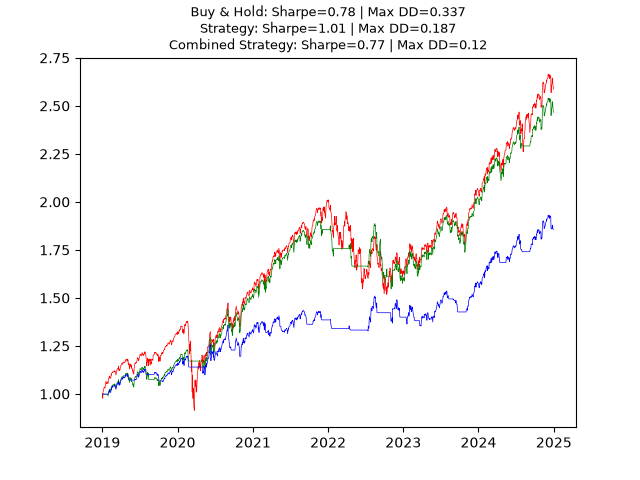
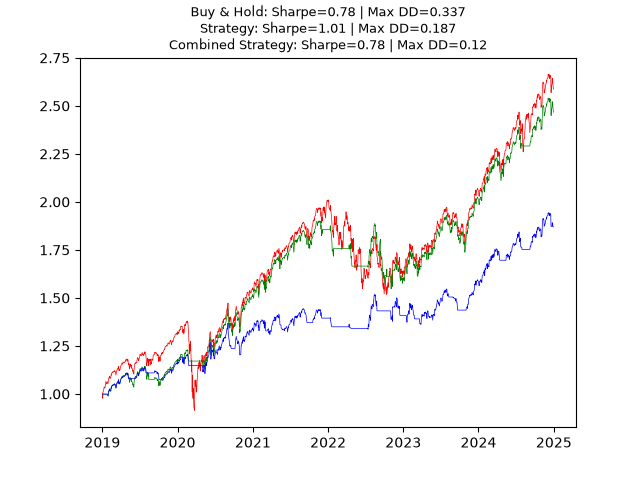
Correct README claims and fix combined-strategy test split
- README: prices are dividend-adjusted; split relabelled as train/test stability check; headline net of costs
- backtest.py: momentum computed once on full series; all reported metrics printed; unused code removed
- volatility_forecasting.py: train-only fit renamed, docstring cleaned
- Tearsheets regenerated

Changed region(s): [[0.2188, 0.5938, 0.75, 0.7812], [0.75, 0.4375, 0.875, 0.5938], [0.1562, 0.7812, 0.2188, 0.8125]]

diff --git a/backtest.py b/backtest.py
@@ -8,6 +8,7 @@ def give_regime_data():
     spy["returns"] = spy["Close"].pct_change()
     spy["rolling_20"] = spy["returns"].rolling(20).std() * (252) ** (1 / 2)
     spy["rolling_252"] = spy["returns"].rolling(252).std() * (252) ** (1 / 2)
+    spy["momentum"] = spy["returns"].rolling(20).sum()
     spy["regime"] = 1
     spy.loc[spy["rolling_20"] >= spy["rolling_252"] * 1.2, "regime"] = 0
     return spy
@@ -36,7 +37,6 @@ def strategy_calculation(spy):
     spy["cumulative_regime_shift"] = spy["regime_shift"].cumsum()
 
     ##### Momentum integrated
-    spy["momentum"] = spy["returns"].rolling(20).sum()
     spy["position_combined"] = 0
     spy.loc[(spy["regime"].shift(1) == 1) & (spy["momentum"].shift(1) > 0), "position_combined"] = 1
     spy["strategy_combined_returns"] = spy["returns"] * spy["position_combined"]
@@ -84,29 +84,13 @@ def metrics_and_graphs(spy, irx_daily, label_strat=""):
     print(spy["cumulative_strategy_returns_tc"].iloc[-1])
     print(spy["cumulative_strategy_combined_returns_tc"].iloc[-1])
     print(spy["combined_shift"].cumsum().max())
+    print("NO-TC  cum regime/combined:", spy["cumulative_strategy_returns"].iloc[-1], spy["cumulative_strategy_combined_returns"].iloc[-1])
+    print("NO-TC  Sharpe regime/combined:", sharpe_ratio(spy["strategy_returns"], irx_daily), sharpe_ratio(spy["strategy_combined_returns"], irx_daily))
+    print("NO-TC  MaxDD regime/combined:", max_drawdown(spy["strategy_returns"]), max_drawdown(spy["strategy_combined_returns"]))
+    print("TC     MaxDD hold/regime/combined:", max_drawdown_hold, max_drawdown_strategy_tc, max_drawdown_combined_strategy_tc)
+    print("TC     Sharpe hold/regime/combined:", sharp_ratio_hold, sharp_ratio_strategy_tc,
+          sharp_ratio_combined_strategy_tc)
     return sharp_ratio_hold, max_drawdown_hold, sharp_ratio_strategy_tc, max_drawdown_strategy_tc, sharp_ratio_combined_strategy_tc, max_drawdown_combined_strategy_tc
-
-def compute_metrics(spy, irx_daily):
-    sharpe_hold = sharpe_ratio(spy["returns"], irx_daily)
-    dd_hold = max_drawdown(spy["returns"])
-    sharpe_strategy = sharpe_ratio(spy["strategy_returns"] - spy["transaction_cost"], irx_daily)
-    sharpe_combined = sharpe_ratio(spy["strategy_combined_returns"] - spy["transaction_cost_combined"],
-                                                    irx_daily)
-    dd_strategy = max_drawdown(spy["strategy_returns"] - spy["transaction_cost"])
-    dd_combined = max_drawdown(
-        spy["strategy_combined_returns"] - spy["transaction_cost_combined"])
-    return dict(sharpe_hold=sharpe_hold, sharpe_strategy=sharpe_strategy, sharpe_combined=sharpe_combined,
-                dd_hold=dd_hold, dd_strategy=dd_strategy, dd_combined=dd_combined)
-
-
-def walk_forward_evaluate(spy, irx_daily, n_splits=5):
-    spy = strategy_calculation(spy)
-    fold_bounds = pd.qcut(spy.index, n_splits, labels=False)
-    results = []
-    for fold in range(n_splits):
-        mask = fold_bounds == fold
-        results.append(compute_metrics(spy[mask], irx_daily[mask]))
-    return pd.DataFrame(results)
 
 def tc_sweep(spy, irx_daily, tcs=(0.0, 0.0005, 0.001, 0.002, 0.005, 0.01)):
     """Regime strategy Sharpe and cumulative return for different costs per switch (same convention as strategy_calculation)."""
@@ -139,8 +123,6 @@ if __name__ == "__main__":
     sharpe_hold = sharpe_ratio(spy["returns"], irx_daily)
     below = sweep.loc[sweep["sharpe"] < sharpe_hold, "tc_bp"]
     print("Sharpe falls below buy-and-hold at about", below.min() if len(below) else ">150", "bp per switch")
-
-    wf_df = walk_forward_evaluate(spy, irx_daily, n_splits=5)
 
     fig, axes = plt.subplots(3, 1, figsize=(10, 9), gridspec_kw={'height_ratios': [3, 3, 1]})
 

diff --git a/volatility_forecasting.py b/volatility_forecasting.py
@@ -47,8 +47,7 @@ def compute_regime_metrics(data, regime_col, irx_daily, label, tc=0.001):
 
 def build_garch_regimes(data):
     """Raw and 5-day-smoothed GARCH regime signals, same 1.2x threshold rule
-    as the baseline. Smoothing uses a TRAILING window only (no lookahead --
-    caught and fixed a negative-shift bug here on Aug 24)."""
+    as the baseline. Smoothing uses a TRAILING window only (no lookahead)."""
     data["garch_vol_annual"] = (data["garch_var_daily"] ** 0.5) * (252 ** 0.5)
     data["regime_garch"] = 1
     data.loc[data["garch_vol_annual"] >= data["rolling_252"] * 1.2, "regime_garch"] = 0
@@ -106,11 +105,11 @@ if __name__ == "__main__":
     train = spy[spy["Date"] < "2019-01-01"].copy()
     test = spy[spy["Date"] >= "2019-01-01"].copy()
 
-    am_full = arch_model(spy["returns"] * 100, vol="Garch", p=1, q=1, mean="Constant", dist="t")
-    res_full = am_full.fit(disp="off", first_obs=0, last_obs=len(train))
-    print(res_full.summary())
+    am_train = arch_model(spy["returns"] * 100, vol="Garch", p=1, q=1, mean="Constant", dist="t")
+    res_train = am_train.fit(disp="off", first_obs=0, last_obs=len(train))  # estimation uses train rows only
+    print(res_train.summary())
 
-    forecast = res_full.forecast(horizon=1, start=len(train), reindex=False)
+    forecast = res_train.forecast(horizon=1, start=len(train), reindex=False)
 
     test_dates = test["Date"].reset_index(drop=True)
     forecast_variance = forecast.variance["h.1"].reset_index(drop=True)

diff --git a/README.md b/README.md
@@ -14,9 +14,8 @@ next-period volatility with a GARCH model produces a better-timed signal than re
 
 ## Data
 
-SPY + VIX + 3-month T-bill (^IRX), daily, 2010-2024, via yfinance. Using Close
-prices (not dividend-adjusted) — a simplification to revisit if returns need to
-reflect total return.
+SPY + VIX + 3-month T-bill (^IRX), daily, 2010-2024, via yfinance. SPY prices are
+the dividend-adjusted Close, so returns are total returns with dividends reinvested.
 
 **Setup:** run `data_download.py` first to fetch the data locally into `data/`
 before running `parameter_robustness_exploration.py` or `backtest.py`. Data files are not tracked in this
@@ -54,11 +53,15 @@ selected as it produced more persistent regimes and more stable switch counts ac
 specification showed a sharp sensitivity to threshold choice (186 switches at 1.1 vs 45 at 1.4), while the 20d/252d
 specification was more robust (106 at 1.1 vs 47 at 1.4).
 
-**Parameter robustness:** thresholds from 1.1 to 1.4 were tested on both window pairs. The 20d/252d specification
-produced
-stable switch counts across 1.2-1.4 (55-61 switches over 14 years, approximately 4 per year), suggesting results are not
-sensitive to the exact threshold in this range. A threshold of 1.2 was selected. Regime persistence of approximately 3
-months on average is consistent with the momentum holding periods documented in Jegadeesh & Titman (1993).
+**Parameter robustness:** thresholds from 1.1 to 1.4 were tested on both window pairs, on the full 2010-2024 sample.
+Across 1.2-1.4
+the 20d/252d switch count falls from 61 to 55 to 47 (about -23% end to end) against 135, 65 and 45 for 20d/60d (about
+-67%), so the
+regime frequency is much less threshold-sensitive with the 252-day window; at the chosen threshold it is about 4
+switches per year.
+A threshold of 1.2 was selected from this switch-count analysis (strategy performance was not used to choose it;
+performance sensitivity to
+the threshold was not tested). Regime persistence is approximately 3 months on average.
 
 **Forecasting the volatility signal:** the regime rule above reacts to *trailing* 20-day volatility — it only registers
 a
@@ -120,12 +123,12 @@ The forecast smoothing uses a trailing window only, introducing no lookahead.
 The regime strategy's Sharpe ratio stays above buy-and-hold (0.77) up to roughly 65–70bp per switch; the 10bp assumption
 is conservative for a liquid ETF such as SPY.
 
-**Out-of-sample split (with TC):**
+**Train/test split (with TC):**
 
 | Metric       | Period            | Buy & Hold | Regime Strategy | Combined Strategy |
 |--------------|-------------------|------------|-----------------|-------------------|
 | Sharpe ratio | Train (2010-2018) | 0.77       | 0.93            | 0.67              |
-| Sharpe ratio | Test (2019-2024)  | 0.78       | 1.01            | 0.77              |
+| Sharpe ratio | Test (2019-2024)  | 0.78       | 1.01            | 0.78              |
 | Max drawdown | Train (2010-2018) | 19.3%      | 15.7%           | 19.3%             |
 | Max drawdown | Test (2019-2024)  | 33.7%      | 18.7%           | 12.0%             |
 
@@ -138,7 +141,7 @@ is conservative for a liquid ETF such as SPY.
 | Max drawdown                    | 18.7%               | 19.1%                            |
 | Regime switches (full)          | 28                  | 36                               |
 
-The trailing-volatility Sharpe here (1.021) differs slightly from the out-of-sample table above (1.01) because this
+The trailing-volatility Sharpe here (1.021) differs slightly from the train/test table above (1.01) because this
 sample excludes the last five trading days of 2024, which have no forward target.
 
 **Sensitivity to the cost per switch (out-of-sample test period, 2019-2024):**
@@ -160,16 +163,16 @@ combination, as currently specified, does not.**
 See the Performance Tearsheet above for the equity curves, the regime overlay on price, and the full train/test metrics
 breakdown.
 
-The regime strategy achieves nearly identical cumulative return to buy-and-hold
-(6.61x vs 6.84x — giving up only ~3% of total return) while improving the Sharpe
-ratio (0.99 vs 0.77) and nearly halving maximum drawdown (17.8% vs 33.7%). The
+The regime strategy gives up about 9% of buy-and-hold's terminal wealth net of costs
+(6.22x vs 6.84x) while improving the Sharpe ratio (0.96 vs 0.77) and cutting maximum
+drawdown by about 45% (18.7% vs 33.7%). The
 strategy underperforms during the sustained low-volatility bull market post-2018,
 but the volatility filter's drawdown protection during stress periods largely
 compensates.
 
 Adding a 20-day momentum filter (invest only when regime = low vol AND 20-day
-return > 0) significantly reduces cumulative return (4.0x vs 6.6x for regime-only)
-despite marginally improving max drawdown (14.3% vs 17.8%). The 20-day momentum
+return > 0) significantly reduces cumulative return before costs (4.0x vs 6.6x for regime-only)
+despite marginally improving max drawdown (14.3% vs 17.8%, before costs). The 20-day momentum
 signal is too noisy as a binary filter — it generates frequent unnecessary exits
 within calm regimes, missing upside in a generally trending market. A longer
 momentum window or continuous position sizing rather than binary filtering would
@@ -177,7 +180,7 @@ be more appropriate — left for future work.
 
 Accounting for transaction costs (0.1% per position change) confirms the regime
 strategy's benefit is largely robust — cumulative return drops modestly from
-6.61x to 6.22x (Sharpe 0.99 to 0.96) given its 61 switches over 14 years. The
+6.61x to 6.22x (Sharpe 0.99 to 0.96) given its 61 switches over 15 years. The
 combined regime+momentum strategy fares much worse: switching 275 times —
 4.5x more often, since both the regime and momentum signals must independently
 align — means transaction costs erode cumulative return from 4.01x to 3.05x
@@ -187,13 +190,15 @@ can become value-destructive once realistic trading costs are included,
 reinforcing why the naive momentum combination is not adopted as currently
 specified.
 
-An out-of-sample check (train 2010-2018, test 2019-2024) confirms the regime
+A train/test split (train 2010-2018, test 2019-2024) is consistent with the regime
 strategy's robustness: it improves Sharpe over buy-and-hold in both periods
 (0.77→0.93 train, 0.78→1.01 test) and reduces max drawdown in both (19.3%→15.7%
-train, 33.7%→18.7% test). The combined strategy is less consistent — it
+train, 33.7%→18.7% test). This is a stability check, not a clean out-of-sample test: the window and threshold were
+chosen from full-sample switch-count analysis (not from strategy performance). The combined strategy is less
+consistent — it
 underperforms buy-and-hold on Sharpe in the train period (0.67 vs 0.77) but
-roughly matches it in test (0.77 vs 0.78), while offering better drawdown
-protection in both periods. This period-dependence, combined with the
+matches it in test (0.78 vs 0.78), while offering better drawdown
+protection in the test period only (negligible in train). This period-dependence, combined with the
 transaction cost sensitivity already noted, suggests the regime signal alone
 is the more robust and reliable component of this research.
 
@@ -205,9 +210,9 @@ QLIKE is the more informative one here, because squared returns are a very noisy
 extreme days. GARCH has lower QLIKE on all three targets (1.45 vs 1.57 on the full sample; 1.45 vs 1.55 excluding the
 crisis; 0.42 vs 0.55 on the five-day target) and lower RMSE on two of them (4.8e-4 vs 5.5e-4 on the full sample; 3.5e-4
 vs 4.2e-4 on the five-day target). Excluding the crisis, single-day RMSE is indistinguishable (2.105e-4 for both), which
-suggests that GARCH’s single-day RMSE advantage comes mainly from the crisis period. The forecast leads rather than lags
-at regime shifts: at the February 2020 onset, for example, the GARCH forecast registered elevated volatility a day ahead
-of the trailing window.
+suggests that GARCH’s single-day RMSE advantage comes mainly from the crisis period. In the one episode inspected (the
+February 2020 onset), the GARCH forecast registered elevated volatility a day ahead of the trailing window; this single
+example is illustrative, not a systematic lead-lag result.
 
 Whether that forecasting advantage translates into a better *strategy* is a separate
 question. Substituting the raw GARCH forecast for trailing volatility in the regime rule
@@ -241,8 +246,10 @@ metrics comparison.
   the added model complexity is a judgment call, not a clear win. The forecast-accuracy improvement is the more reliable
   result.
 - Conventions: trades execute at the close that generated the signal; cash earns zero in the strategy returns while
-  Sharpe ratios subtract the T-bill rate (conservative); the ex-COVID figures are computed after removing the 15 Feb–30
-  Apr 2020 rows from the test period, so the one-day signal lag bridges that gap once.
+  Sharpe ratios subtract the T-bill rate (conservative); the regime defaults to long until the 252-day window fills
+  (about the first year); switch counts include the first row (initial entry), so true regime changes are one fewer;
+  the ex-COVID figures are computed after removing the 15 Feb–30 Apr 2020 rows from the test period, so the one-day
+  signal lag bridges that gap once.
 - Momentum crashes: any future momentum-based signal remains vulnerable to sharp
   market reversals (e.g. COVID 2020) where recent winners become losers rapidly
 - Regime changes: when the macro environment shifts fundamentally (rate cycle
@@ -252,6 +259,7 @@ metrics comparison.
   best way to exploit it
 - Crowding: if too many participants run similar strategies, the edge erodes
 - Horizon sensitivity: momentum (if used) only works at 3-12 month horizons
-- Using raw Close, not dividend-adjusted — understates true returns
+- Single asset (SPY) over one sample period (2010-2024, a prolonged bull market with one major crash); no other markets
+  or regimes tested
 - Past performance doesn't guarantee future regimes/results
 
